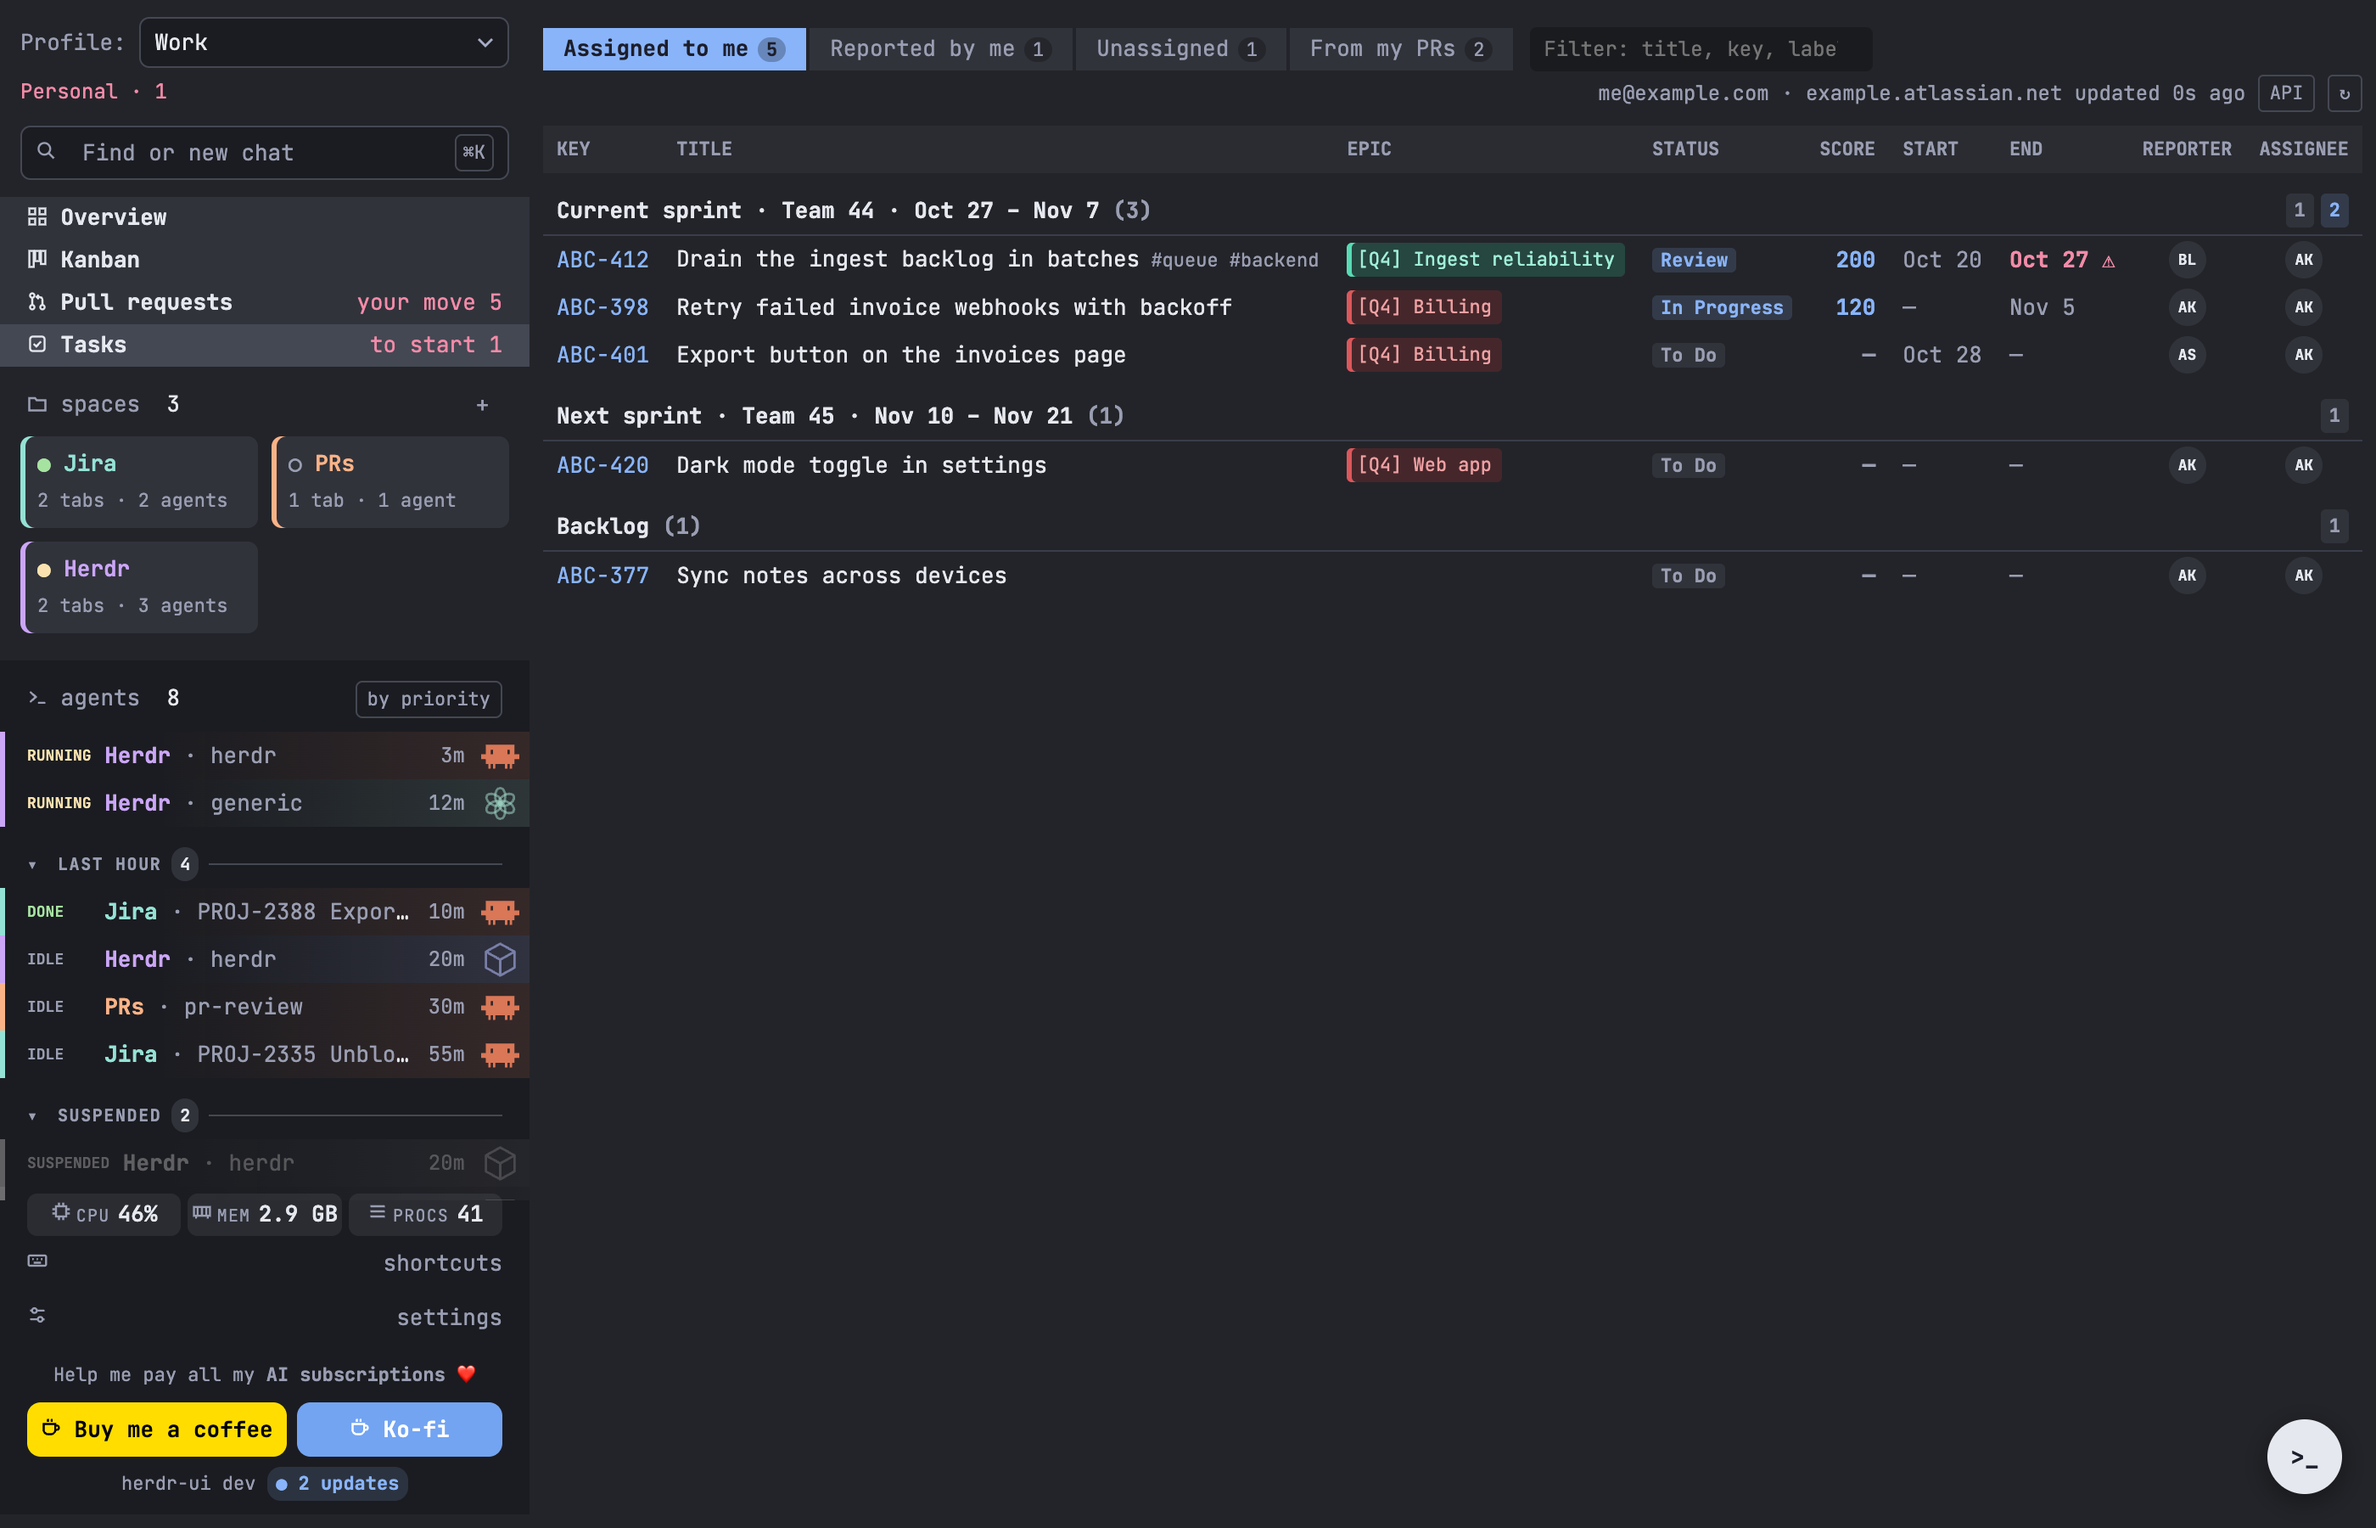
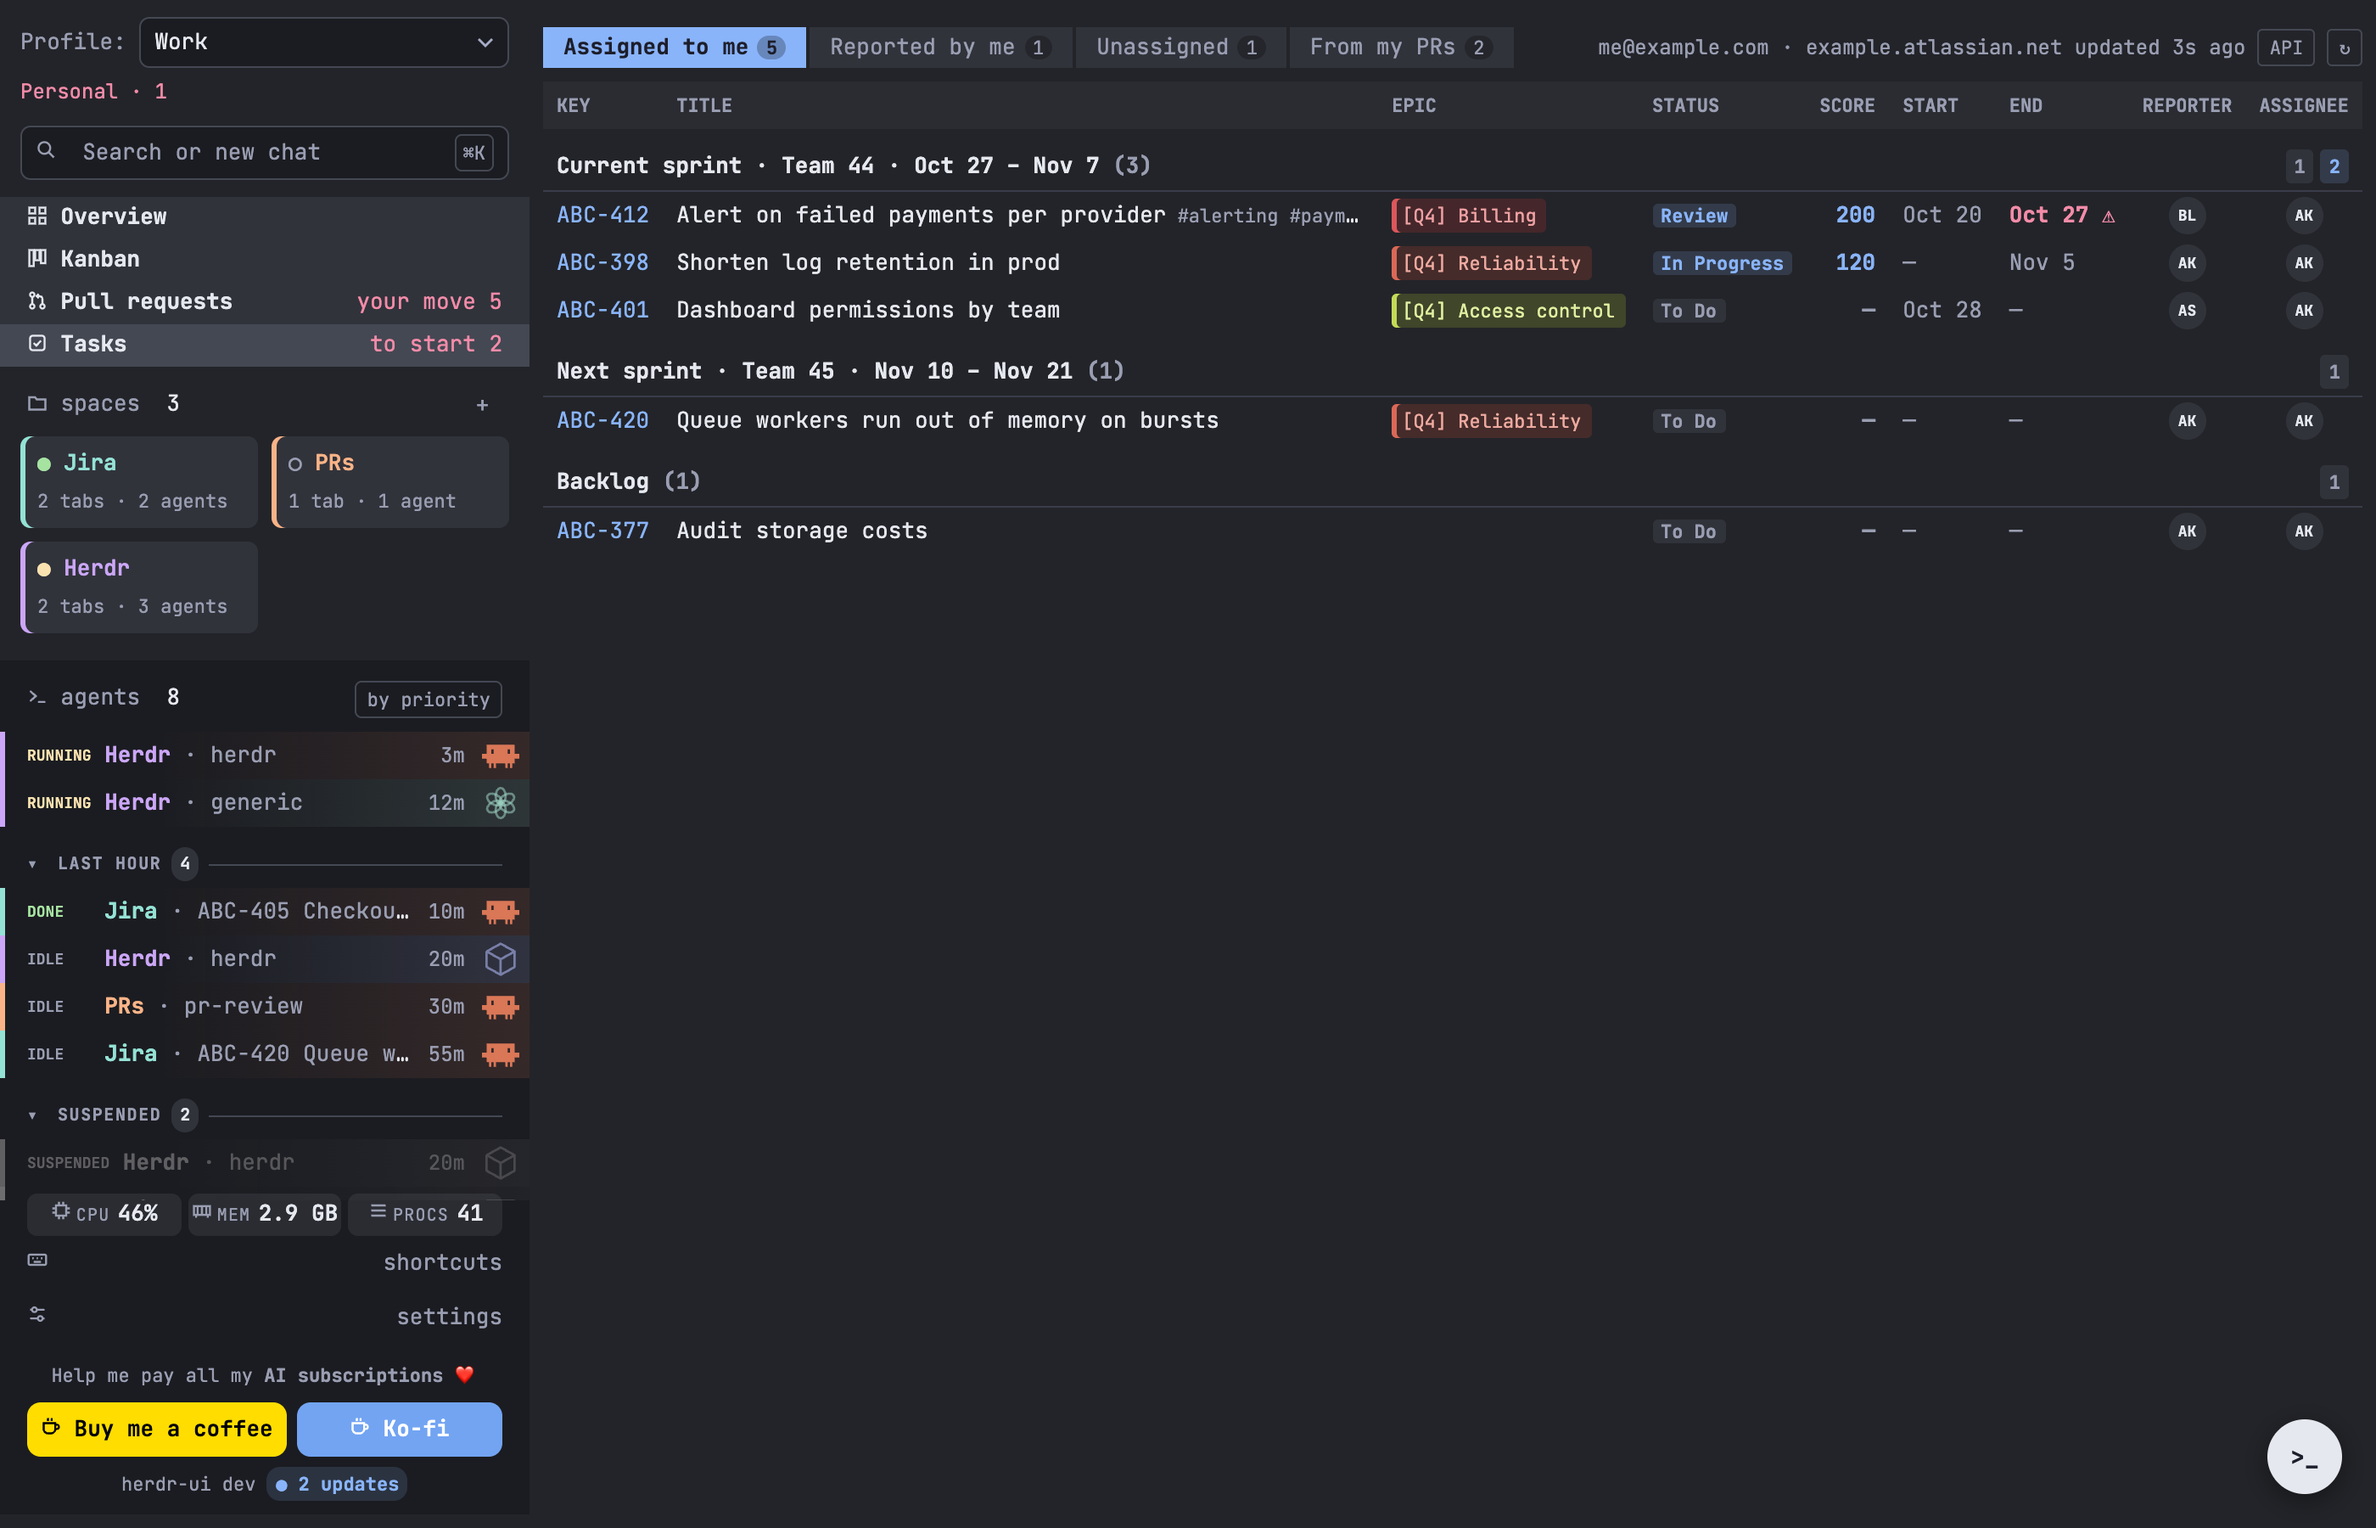
herdr-ui: new screenshots, ⌘K searches sessions, PRs, tasks and folders

diff --git a/herdr-ui/index.html b/herdr-ui/index.html
@@ -4,7 +4,7 @@
 <meta charset="utf-8">
 <meta name="viewport" content="width=device-width, initial-scale=1">
 <title>herdr-ui · every agent, one screen</title>
-<meta name="description" content="herdr-ui: a better UI for herdr. A live overview of every agent, a kanban by status, pull requests and Jira tasks tied to agents, ⌘K, and native macOS notifications.">
+<meta name="description" content="herdr-ui: a better UI for herdr. A live overview of every agent, a kanban by status, pull requests and Jira tasks tied to agents, ⌘K search, and native macOS notifications.">
 <link rel="icon" href="icon.svg">
 <meta property="og:image" content="https://dccarbone.github.io/herdr-ui/social-preview.png">
 <link rel="preconnect" href="https://fonts.googleapis.com">
@@ -293,17 +293,17 @@ footer a:hover { color:var(--fg); }
       <div class="feature-top">
         <div>
           <div class="icon"><svg viewBox="0 0 24 24"><circle cx="11" cy="11" r="7"/><path d="M21 21l-4.3-4.3"/></svg></div>
-          <h2>Find anything with <span class="grad">⌘K</span></h2>
-          <p style="color:var(--body)">One search for every session and repo: ⌘K, a few letters, Enter.</p>
+          <h2>Search everything with <span class="grad">⌘K</span></h2>
+          <p style="color:var(--body)">One search for sessions, pull requests, Jira tasks and folders: ⌘K, a few letters, Enter.</p>
         </div>
         <div class="points">
           <div style="--c:var(--pink)"><b>Jump to a session</b>By space, tab, agent or folder.</div>
           <div style="--c:var(--cyan)"><b>New chat anywhere</b>Pick a folder and a space; your agent starts there.</div>
-          <div style="--c:var(--green)"><b>No duplicates</b>Enter goes to the agent already in that folder.</div>
+          <div style="--c:var(--green)"><b>PRs and tasks</b>Enter opens the PR or the task row; ⌘Enter opens GitHub or Jira.</div>
           <div style="--c:var(--orange)"><b>Your folders</b><code>~/repos</code> or any folder, set in Settings.</div>
         </div>
       </div>
-      <div class="frame"><div class="bar"><i></i><i></i><i></i><span>herdr-ui · ⌘K</span></div><img src="palette.png" width="2800" height="1800" alt="The ⌘K palette over the overview, listing matching sessions and folders for a new chat" loading="lazy"></div>
+      <div class="frame"><div class="bar"><i></i><i></i><i></i><span>herdr-ui · ⌘K</span></div><img src="palette.png" width="2800" height="1800" alt="The ⌘K palette over the overview: the search finds a session, a Jira task and two pull requests" loading="lazy"></div>
     </div>
   </section>
 
